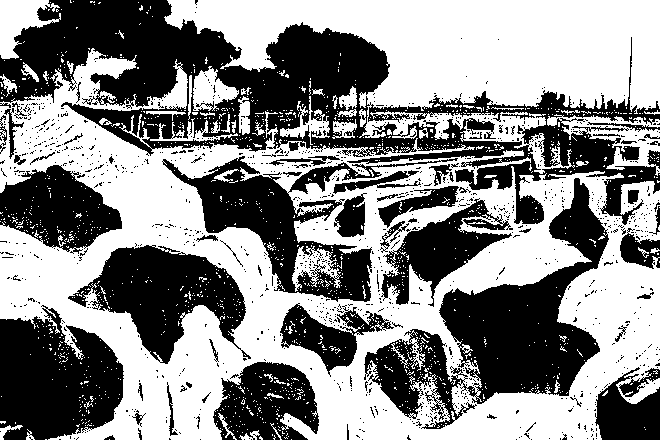
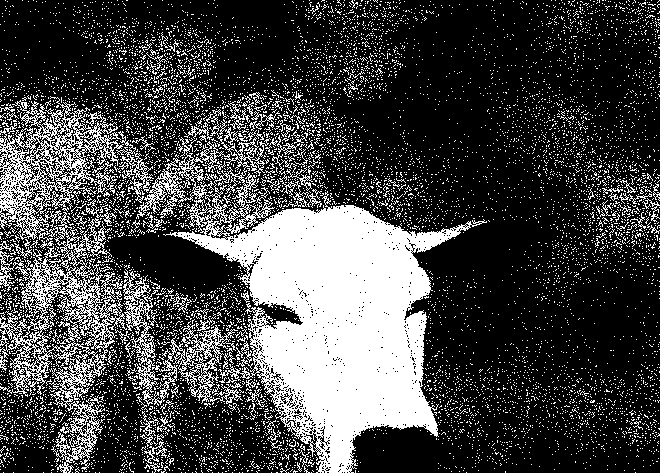
Update the EU cattle blog post + image

diff --git a/posts/an-estimate-of-cattle-killed-due-to-eu-gmo-scepticism.md b/posts/an-estimate-of-cattle-killed-due-to-eu-gmo-scepticism.md
@@ -9,13 +9,24 @@ tags: post
 
 ![img]({{ '/img/hero/cattle.png' | url }})
 
+<div class="edit">
+<p>
+Correction 2026-10-18: In the original version of this post, I misread Beyond Meat’s sales figures, thinking they were reported in pounds rather than <a href="https://www.sec.gov/Archives/edgar/data/1655210/000165521022000019/bynd-20211231.htm">thousands of pounds</a>. This egregious error caused my estimate of the cattle affected to be 1,000 times too small. However, I have also improved the back-of-the-envelope calculation in a few ways, causing a (smaller) downward revision. The net effect is that my new estimate is about 61 times larger, with a median of about 1,100 cattle rather than 18 cattle. Therefore, my previous conclusion that the number of extra deaths is “less than I would have guessed, which only goes to show how off my original intuition was” was only half right, as the number is somewhat fewer than I would have guessed, but my original intuition was pretty reasonable.
+</p>
+
+<p>
+In 2024, EFSA’s GMO panel gave soy leghemoglobin a positive safety opinion (EFSA GMO Panel 2024), after its food additives panel had done the same (EFSA FAF Panel 2024). But it still <a href="https://agfundernews.com/impossible-makes-uk-retail-debut-at-tesco-without-its-flagship-heme-protein">hasn’t received final approval</a>; although some Impossible Foods products went on sale in the Netherlands and the UK this year, they are made without soy leghemoglobin. According to Claude Opus 5.5, revising and extending my estimates to October 2026, about 4,800 (90% CI: 500 to 47,000) cattle have so far died as a result of EU GMO regulation. This is sad and infuriating.
+</p>
+
+</div>
+
 ## Summary
 
-Impossible Foods has not been able to put its product on the European market because it contains a genetically modified organism (GMO); the European Food Safety Authority (EFSA) is hesitant to approve GMO products for human consumption. **I estimate, with a rough back-of-the-envelope calculation, this delay to have caused the deaths of something like 20 cattle so far, and to cause the deaths of maybe 200 to 20,000 cattle (that's my 60% confidence interval) in total.**
+Impossible Foods has not been able to put its product on the European market because it contains a genetically modified organism (GMO); the European Food Safety Authority (EFSA) is hesitant to approve GMO products for human consumption. **I estimate, with a rough back-of-the-envelope calculation, this delay to have caused the deaths of something like 1,100 cattle so far, and to cause the deaths of maybe 710 to 17M cattle (that's my 90% confidence interval) in total.**
 
 ## Background
 
-To make beef, you need to grow cattle.[^1] Most cattle in the developed world is raised in factory farms.[^2] As far as factory farmed animals go, beef cattle probably have it the best. But they have it bad enough. For example, in the US and elsewhere they are often branded with hot iron. Once they have reached maturity, they're usually taken to crowded feedlots where they are fattened. After that follow long and stressful transports during which it's not uncommon to see animals die or become "downed" (unable to walk or stand). Then, of course, there's the horror of the slaughterhouse and the actual killing.
+To make beef, you need to grow cattle.[^1] Most cattle in the developed world are raised in factory farms.[^2] As far as factory farmed animals go, beef cattle probably have it the best. But they have it bad enough. For example, in the US and elsewhere they are often branded with hot iron. Once they have reached maturity, they're usually taken to crowded feedlots where they are fattened. After that follow long and stressful transports during which it's not uncommon to see animals die or become "downed" (unable to walk or stand). Then, of course, there's the horror of the slaughterhouse and the actual killing.
 
 So in my view it would be good if people ate less meat, beef included. One way of doing that is by replacing meat consumption with good plant-based alternatives. In Europe, for example, we've had the Beyond Burger for a few years now. It's a fine product. I eat it regularly. But from what I hear, there's an even better plant-based burger out there: the Impossible Burger. I say *hear* because I haven't yet had the chance to taste it: the Impossible Burger is unfortunately stuck awaiting EFSA's approval and therefore hasn't yet been introduced into the European market.
 
@@ -31,31 +42,55 @@ Every time I was reminded of this in the past couple of years, a palm went for m
 
 ## Estimate
 
-Here's a very rough back-of-the-envelope calculation. Suppose Impossible Foods would have launched in Europe in the first days of 2020 (one year after submitting the GMO dossier to EFSA). During 2020 and 2021, Beyond Meat sold 19,474 kg of produce outside the US.[^3] Suppose 3/4ths of international volume was from the EU (including the UK[^4]). Suppose 4/5ths of volume was in the sale of flagship products (ground beef). Suppose Impossible Foods would have added a net total of plant-based ground beef purchased in the EU equal to 50% of Beyond Meat's volume.[^5] Suppose 72% of plant-based meat purchases displace animal-derived food.[^6] Finally, suppose also that one head of cattle yields somewhere between 200 to 260 kg of beef -- let's say 230 kg.
+Here's a very rough back-of-the-envelope calculation. Suppose Impossible Foods, like Beyond Meat, had been free to sell in Europe without EU approval and had launched in early 2020, reaching full volume a year later (that is, in January 2021). Suppose furthermore that:
 
-Under these assumptions, green-lighting Impossible Foods immediately would have reduced beef consumption by 19,474 kg × 0.75 × 0.8 × 0.5 × 0.72 = 4,206 kg. That means it would have saved the lives of 18 cattle, very roughly. For comparison, in 2016 alone, over 300 million cattle were slaughtered.[^7] That would suggest the dilly-dallying is responsible for 9 ÷ 300,000,000 = 0.000003% of deaths yearly so far.
+- Impossible Foods would have added a net volume of plant-based meat equal to 35% (90% CI: 8% to 150%) of Beyond Meat's volume.[^3] Beyond Meat sold 19,474,000 kg of products outside the US in 2020 and 2021.[^4] If we adjust that to account for Impossible Foods likely needing some time to reach its full volume, we get about 16M kg, so Impossible Foods would have added a net 0.35 × 16M kg outside the US in those years.[^5]
+- 55% (90% CI: 40% to 75%) of its international volume was from the EU (including the UK[^6]).
+- 70% (90% CI: 55% to 90%) of its EU volume was in the sale of flagship products (ground beef).
+- Each kg of plant-based meat displaces 0.2 kg (90% CI: 0.04 to 1 kg) of beef.[^7]
+- Each kg less beef eaten means 0.6 kg (90% CI: 0.35 to 1 kg) less beef produced (since lower prices might make others eat a bit more).[^8]
+- One head of cattle yields somewhere between 200 and 260 kg of beef -- let's say 230 kg.
 
-I don't know about you, but that is far fewer than I would have guessed -- as in, one or two orders of magnitude fewer. 18 heads of cattle is not nothing, but it's not a lot, either. (Of course, to those 18 cattle it is everything.) That said, here are some reasons to think the actual impact might be larger:
+Under these assumptions, GMO regulation increased beef consumption by 16M kg × 0.35 × 0.55 × 0.7 × 0.2 = 430,000 kg, and beef production by 430,000 kg × 0.6 = 260,000 kg. That means it caused the deaths of about 1,100 cattle (90% CI: 110 to 11,000), very roughly.[^9] For comparison, in 2016 alone, over 300M cattle were slaughtered worldwide.[^10] That would suggest the regulations are responsible for 1,100 ÷ 2 ÷ 300M = 0.00018% of cattle deaths yearly so far.
+
+I don't know about you, but that is somewhat fewer than I would have guessed. 1,100 heads of cattle is not nothing, however. (And to each of those 1,100 cattle it is everything.) That said, here are some reasons to think the actual impact might be larger still:
 
 - The estimate is only of direct effects on consumption, but there are likely significant indirect effects too, e.g. somebody having a great experience with the Impossible Burger, persuading them to reduce their meat intake more broadly/permanently (or even go vegetarian or vegan). (This is probably not a huge effect since it's likely very rare, maybe a factor of 2 or less?)
 - The Impossible Burger seems to be somewhat higher quality than the Beyond Burger and other alternatives, so it might have generated more buzz or created a more positive impression of plant-based meat had it been available. (This also seems like a small effect.)
 - The delay might have discouraged other plant-based meat companies from using GMOs in the future. That might be a significant loss in the medium-term because GMOs open up a lot of possibilities for new plant-based protein products. (This seems like a potentially large effect?)
-- This estimate is only for 2020 and 2021. It seems unlikely that Impossible Foods gets approval any time soon, meaning they (and I) could still have years of waiting ahead of us. More importantly, these companies are still in the early stages of their existence. A delay for Impossible Foods doesn't just mean it can't sell anything now -- it also means it will sell less than it otherwise would have once it *has* approval, because it will need to ramp up production, establish distribution channels, market its products, and so on. Scaling up takes time, and a delay can have long-lasting effects or even kill a business before it gets off the ground. (Depending on how long it would take to catch up to the counterfactual, and on how much volume is moved once it has, I think this could cause the number of cattle killed to be one or two orders of magnitude larger. If my math is correct, that should be roughly the equivalent of a timeline delayed by five years, so to 2025, alongside an eventual yearly reduction in beef consumption 4-40 times that of the current yearly estimate, so 16,824 kg to 168,240 kg per year at its height.)
+- This estimate is only for 2020 and 2021. It seems unlikely that Impossible Foods gets approval any time soon, meaning they (and I) could still have years of waiting ahead of us. More importantly, these companies are still in the early stages of their existence. A delay for Impossible Foods doesn't just mean it can't sell anything now -- it also means it will sell less than it otherwise would have once it *has* approval, because it will need to ramp up production, establish distribution channels, market its products, and so on. Scaling up takes time, and a delay can have long-lasting effects or even kill a business before it gets off the ground. (Depending on how long it would take to catch up to the counterfactual, and on how much volume is moved once it has, I think this could cause the number of cattle killed to be one or two orders of magnitude larger. If my math is correct, that should be roughly the equivalent of a timeline delayed by five years, so to 2025, alongside an eventual yearly reduction in beef consumption 4-40 times that of the current yearly estimate, so 860,000 kg to 8,600,000 kg per year at its height.)
 
-I'm obviously really uncertain about all this, but if I were to venture a guess, I'd say that these considerations could increase the number of dead cattle (compared to the scenario where Impossible Foods get approved in 2019) by one to three orders of magnitude, so to something like (rounding up) 200 to 20,000. That makes EFSA's delay seem stupid, and of course preventing even a single death is something, but it's less than I would have guessed, which only goes to show how off my original intuition was. I think it was off mainly because (1) I would have guessed that Beyond Meat moved more volume than it did and (2) I had not quite grasped just how much beef one head of cattle yields.
+I'm obviously really uncertain about all this, but if I were to venture a guess, I'd say that these considerations could increase the number of dead cattle (compared to the scenario where Impossible Foods could have launched in Europe in 2020) by up to about four orders of magnitude. Combined with the uncertainty in the estimate above, that gives something like 710 to 17M. And so I can only conclude that yes, EFSA's delay is an unforced error, though who knows of what magnitude.
+
+## References
+
+<style>.csl-entry{text-indent: -2em; margin-left: 2em;}</style><div class="csl-bib-body">
+  <div class="csl-entry">Chenarides, Lauren, Joel Cuffey, Wenying Li, Shuoli Zhao, and Brianna Adamo. 2024. “Consumer Spending on Plant-Based Meat Alternatives.” <i>Choices</i>. <a href="https://choicesmagazine.org/choices-magazine/submitted-articles/consumer-spending-on-plant-based-meat-alternatives">https://choicesmagazine.org/choices-magazine/submitted-articles/consumer-spending-on-plant-based-meat-alternatives</a>.</div>
+  <div class="csl-entry">EFSA FAF Panel. 2024. “Safety of Soy Leghemoglobin from Genetically Modified Komagataella phaffii as a Food Additive.” <i>EFSA Journal</i> 22 (6): e8822. https://doi.org/10.2903/j.efsa.2024.8822</div>
+  <div class="csl-entry">EFSA GMO Panel. 2024. “Assessment of Soy Leghemoglobin Produced from Genetically Modified Komagataella phaffii, under Regulation (EC) No 1829/2003 (Application EFSA-GMO-NL-2019-162).” <i>EFSA Journal</i> 22 (11): e9060. https://doi.org/10.2903/j.efsa.2024.9060</div>
+  <div class="csl-entry">MacAskill, William. 2015. <i>Doing Good Better: How Effective Altruism Can Help You Make a Difference</i>. Gotham Books.</div>
+  <div class="csl-entry">Neuhofer, Zachary T, and Jayson L Lusk. 2022. “Most Plant-Based Meat Alternative Buyers Also Buy Meat: An Analysis of Household Demographics, Habit Formation, and Buying Behavior among Meat Alternative Buyers.” <i>Scientific Reports</i> 12 (July): 13062. https://doi.org/10.1038/s41598-022-16996-5</div>
+  <div class="csl-entry">Norwood, F Bailey, and Jayson L Lusk. 2011. <i>Compassion, by the Pound: The Economics of Farm Animal Welfare</i>. Oxford University Press.</div>
+</div>
 
 [^1]:	 This will change as cellular agriculture matures and scales up, but for now it is still true enough as a general statement.
 
 [^2]:	 See e.g. [this article](https://sentientmedia.org/u-s-farmed-animals-live-on-factory-farms/) which says 70% of cows live on factory farms.
 
-[^3]:	 From their [annual reports](https://investors.beyondmeat.com/financial-information/annual-reports).
-
-[^4]:	 The UK left the EU in January of 2020. I seem to recall reading somewhere that Impossible Foods initiated the process for selling its products in the UK last year, in 2021. That suggests (1) they are eager to start selling their products in the EU, but cannot due to GMO approval processes and (2) EFSA slowed them down in the UK too.
-
-[^5]:	 That is, Impossible Foods would have sold more than 50% of Beyond Meat's actual volume, but some of that would just have replaced other plant-based beef products.
+[^3]:	 That is, Impossible Foods would have sold about 70% of Beyond Meat's actual volume, but half of that would just have replaced other plant-based beef products. (In the US, Impossible Foods's growth after 2021 seems to have come mostly at the expense of other brands. In 2022, plant-based meat volumes [fell 5%](https://www.levervc.com/wp-content/uploads/2023/07/Beyond-the-Headlines-U.S.-Retail-Datasets-Indicate-a-Bright-Future-for-Plant-Based-Meat.pdf) while Impossible Foods's sales grew 50%.)
 
 	This guesstimate seems reasonable to me, though it's really hard to know for sure. I'll note that Beyond Meat seems to have a [somewhat larger market share](https://frb.mydigitalpublication.com/january-february-2022/page-36) in the US than Impossible Foods. It's possible that the gap created by the Impossible Burger's absence in the EU has been almost entirely filled by the Beyond Burger and other plant-based competitors.
 
-[^6]:	 My source here is [this article](https://cleantechnica.com/2020/09/20/impossible-burger-sales-replace-72-of-traditional-burger-sales/): "Chicago-based analytics company Numerator analyzed consumer buying habits of the Impossible Burger in the most recent 13-week period. [...] Impossible Burger is displacing animal-derived foods for 72% of total purchases."
+[^4]:	 From their [annual reports](https://investors.beyondmeat.com/financial-information/annual-reports), which give volume in thousands of pounds, I see [15,965 in 2020 and 26,968 in 2021](https://www.sec.gov/Archives/edgar/data/1655210/000165521022000019/bynd-20211231.htm) outside the US (including Canada), or 19,474,000 kg in all.
 
-[^7]:	 See [this Faunalytics article](https://faunalytics.org/global-cow-slaughter-statistics-and-charts/).
+[^5]:	 I assume here that Impossible Foods's sales would've grown steadily from nothing in January 2020 to full volume in January 2021. That would average to 50% of its full volume in 2020 and 100% in 2021.
+
+[^6]:	 The UK left the EU in January of 2020. I seem to recall reading somewhere that Impossible Foods initiated the process for selling its products in the UK last year, in 2021. That suggests (1) they are eager to start selling their products in the EU, but cannot due to GMO approval processes and (2) the UK (which kept the EU's GMO rules after Brexit) slowed them down too.
+
+[^7]:	 My source here is [this article](https://cleantechnica.com/2020/09/20/impossible-burger-sales-replace-72-of-traditional-burger-sales/): "Chicago-based analytics company Numerator analyzed consumer buying habits of the Impossible Burger in the most recent 13-week period. [...] Impossible Burger is displacing animal-derived foods for 72% of total purchases." True, that number is expressed as a share of dollars (not of pounds or kilograms) and it covers all animal-derived foods (not just ground beef). From what I can tell, studies of household purchase data find little or no fall in meat purchases after households start buying plant-based meat (see e.g. Neuhofer and Lusk (2022) and Chenarides et al. (2024)), though they can't rule out a moderate effect. For these reasons, I use a much lower figure than 72%.
+
+[^8]:	 Norwood and Lusk (2011) estimate 0.68 for beef, as cited by MacAskill (2015) (see [this excerpt](https://forum.effectivealtruism.org/posts/KAsnFWNdasSSTu9rP/excerpt-from-doing-good-better-how-vegetarianism-decreases)).
+
+[^9]:	 I model each assumption that has a confidence interval as an independent lognormal distribution with that 90% interval (for the beef per head of cattle, 200 to 260 kg), and treat the launch date and ramp-up as fixed. Multiplying these distributions (I used [squigglepy](https://github.com/rethinkpriorities/squigglepy)) gives a median of about 1,100 cattle, with a 90% confidence interval of about 10 times either way.
+
+[^10]:	 See [this Faunalytics article](https://faunalytics.org/global-cow-slaughter-statistics-and-charts/).
